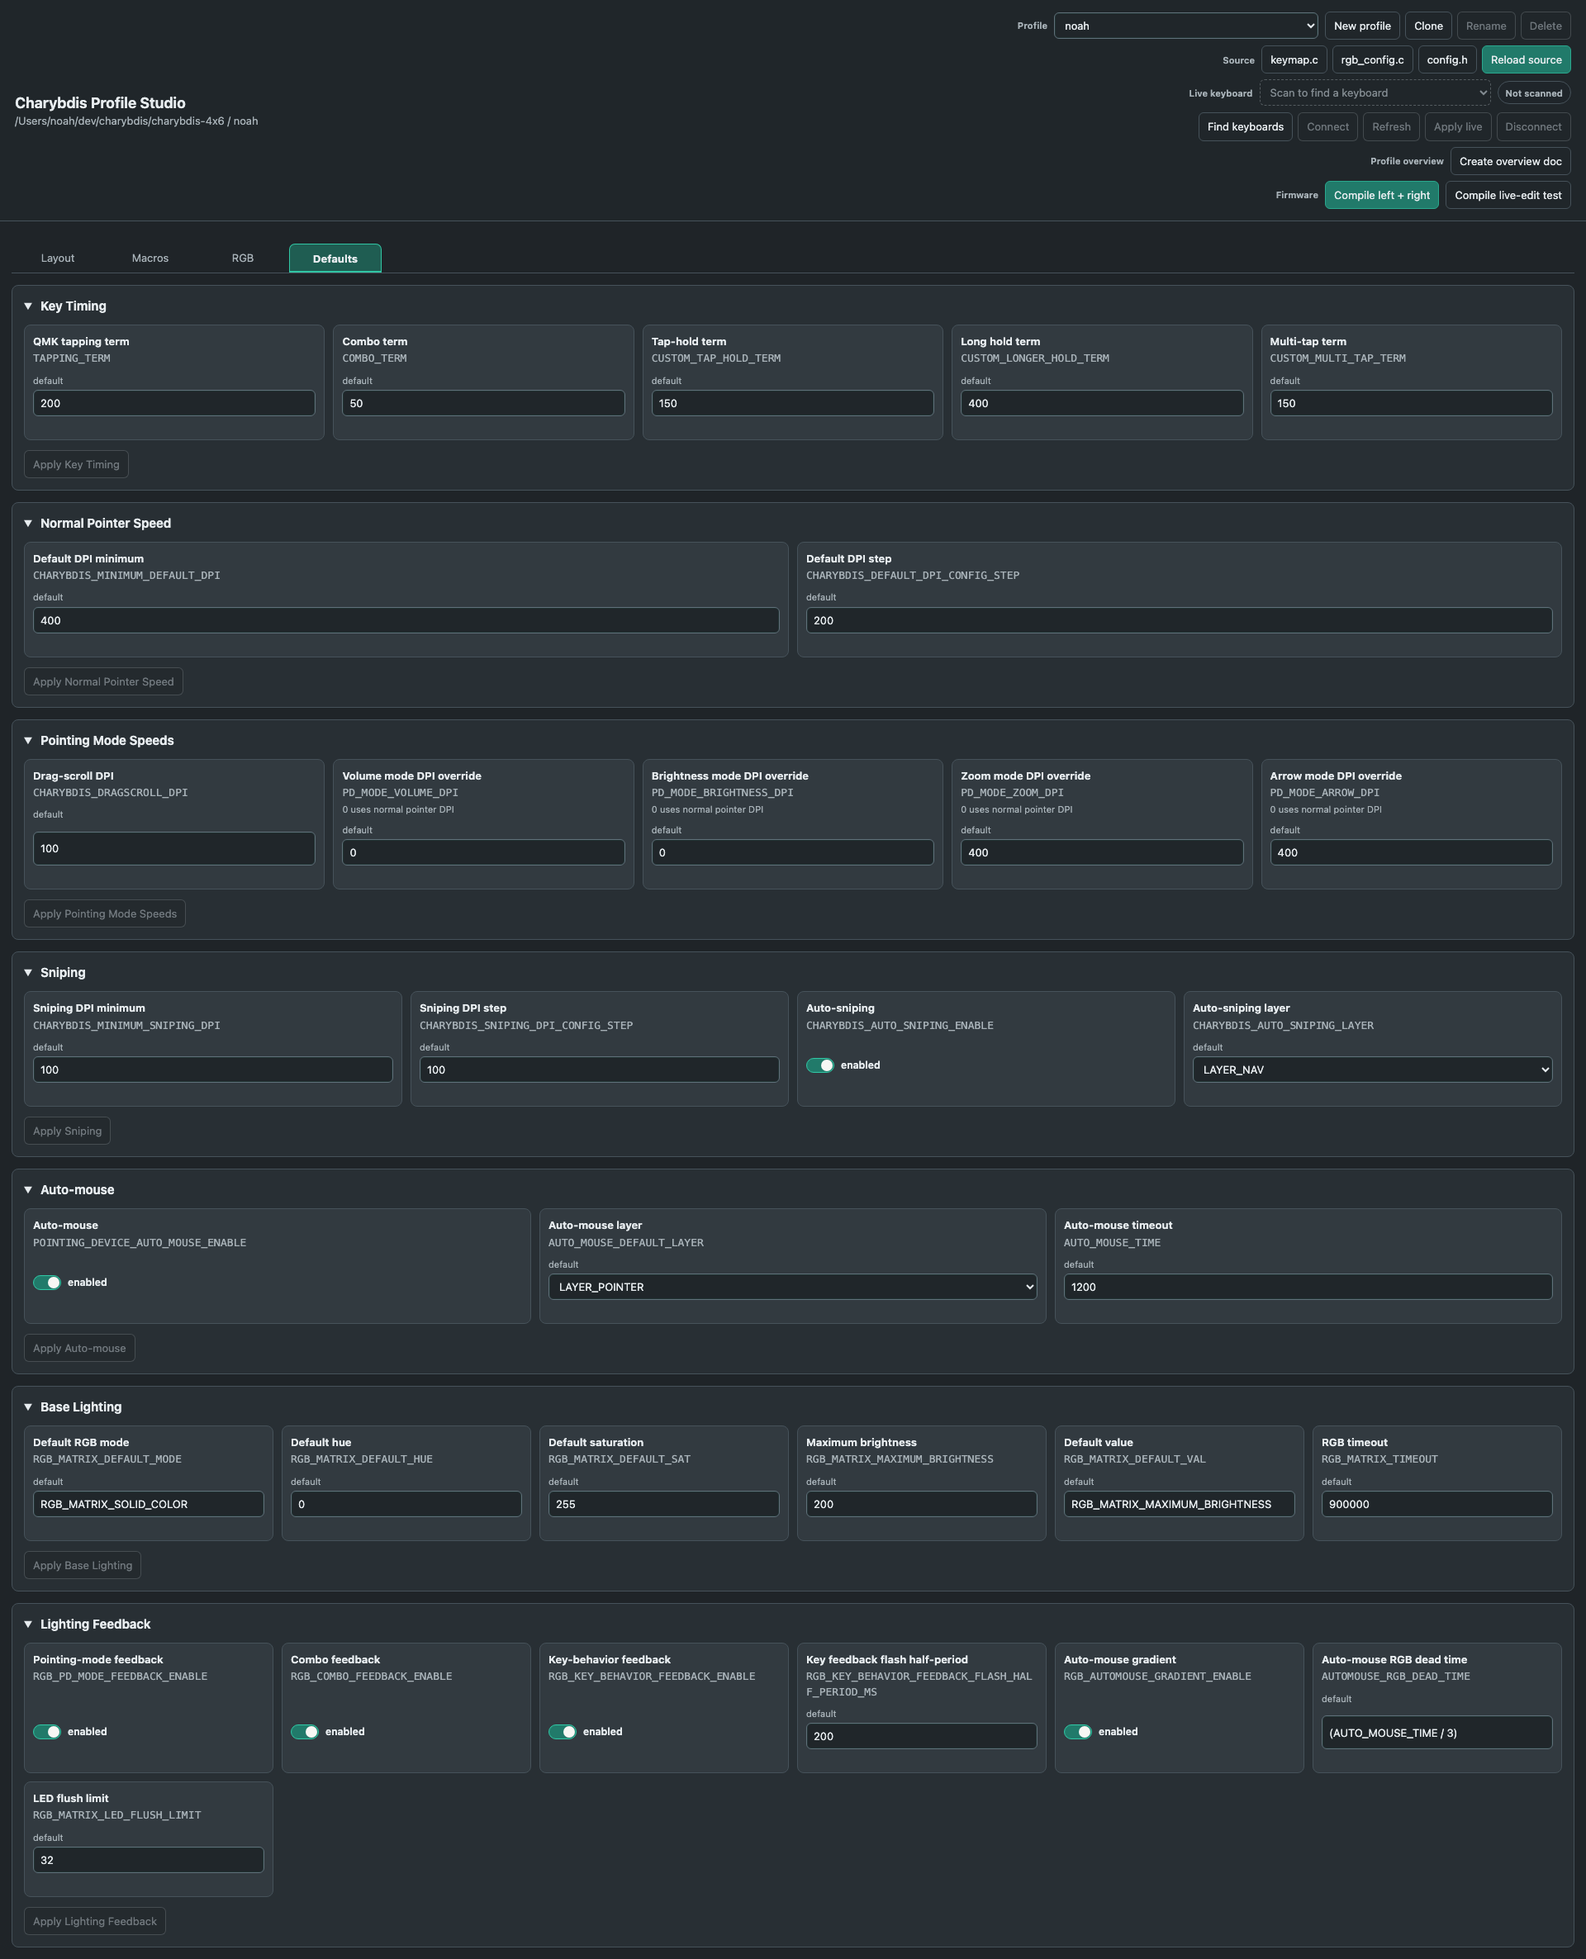
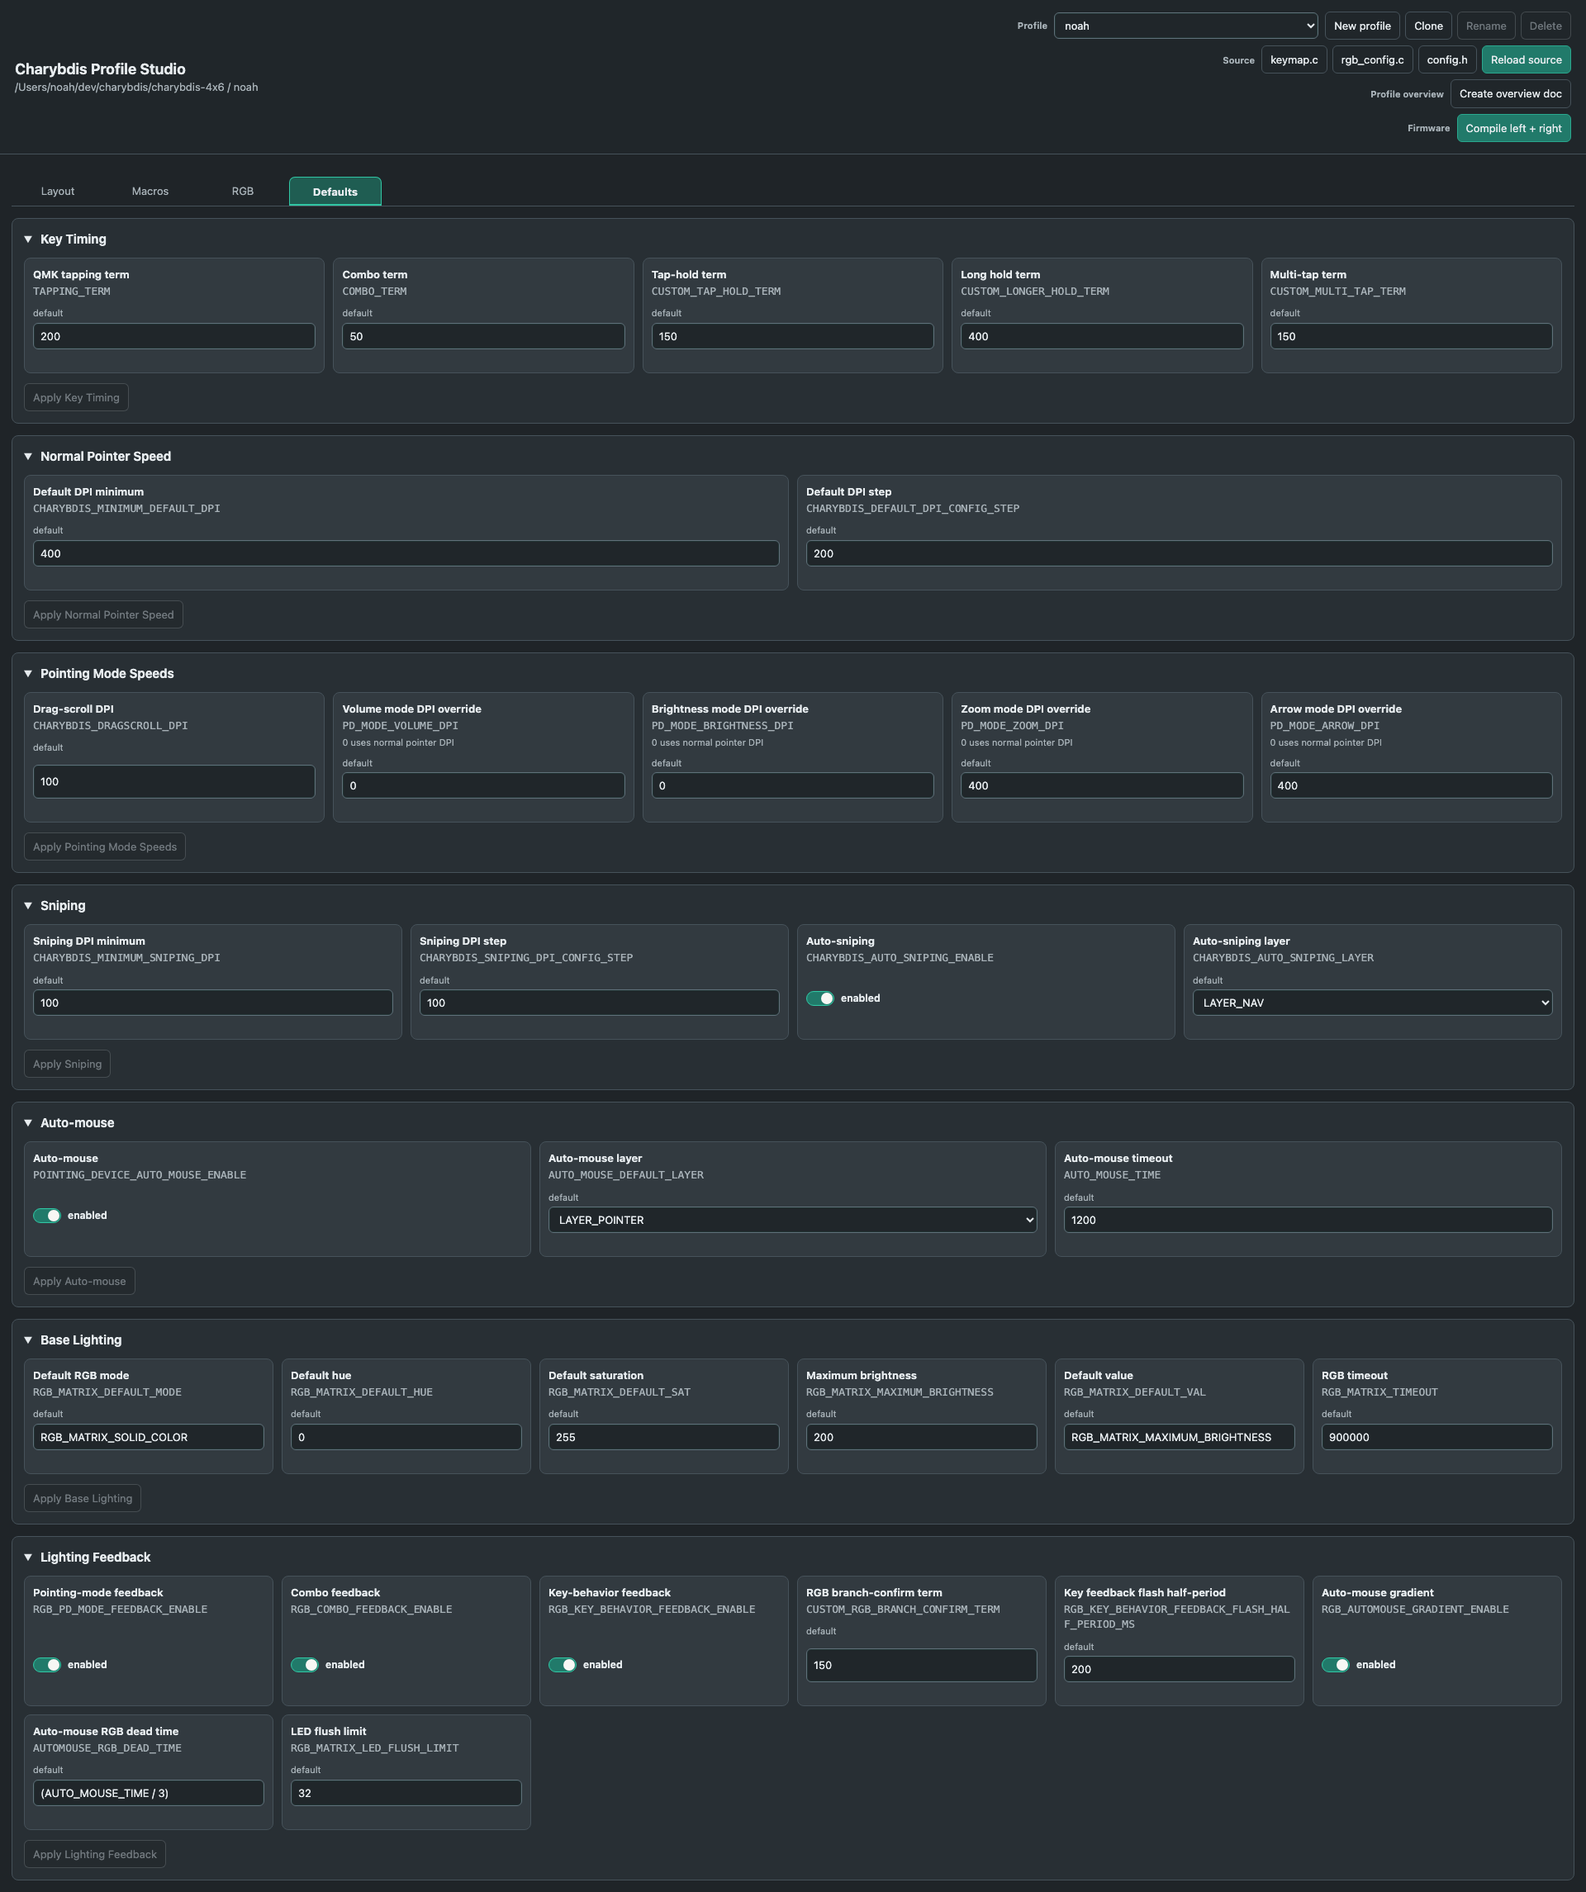
Install and run Charybdis Live the same way as Profile Studio
Mirror the affordances Profile Studio already had, so the new app is not a
second-class thing you have to remember how to start.

- scripts/install-local.sh symlinks the extension into the local VS Code
  extension directory, idempotently, refusing to clobber a real directory.
  Unlike Studio this app has a native dependency, so it installs
  node_modules first and prints the Electron rebuild command in case
  node-hid was built for a different Node ABI.
- npm run install:local, matching Studio's script name.
- A status bar item, $(radio-tower) Charybdis Live, alongside Studio's
  $(keyboard) Profile Studio. It activates onStartupFinished rather than
  Studio's workspaceContains:qmk.json, because this app must not need a
  repository to be useful.
- Repo tasks: Install Charybdis Live Extension, and Regenerate Live
  Keycode Catalog for the one build step the app has.
- Repo and app launch configs so F5 runs either extension.

The workspace file needs no change: its status bar entries drive tasks,
and the app contributes its own item once installed, exactly as Studio
does.

Also fix documentation the revert made false. The README described live
editing as a Profile Studio feature and PROFILE_STUDIO.md documented
Apply live, Compile live-edit test and the performance comparison build,
none of which exist in the frozen Studio. The guide and its screenshots
return to their refactor/aug state with a pointer to the live app, and the
[…]

diff --git a/tools/charybdis-live/extension.js b/tools/charybdis-live/extension.js
@@ -20,6 +20,13 @@ function activate(context) {
     context.subscriptions.push(
         vscode.commands.registerCommand("charybdisLive.open", () => openPanel(context))
     );
+
+    const status = vscode.window.createStatusBarItem(vscode.StatusBarAlignment.Left, 2);
+    status.text = "$(radio-tower) Charybdis Live";
+    status.tooltip = "Open Charybdis Live — edit the connected keyboard";
+    status.command = "charybdisLive.open";
+    status.show();
+    context.subscriptions.push(status);
 }
 
 function deactivate() {}

diff --git a/docs/tooling/PROFILE_STUDIO.md b/docs/tooling/PROFILE_STUDIO.md
@@ -1,22 +1,24 @@
 # Charybdis Profile Studio
 
+> Profile Studio edits the authored C profile. Editing the **connected
+> keyboard** is a separate app: see
+> [`tools/charybdis-live/`](../../tools/charybdis-live/) and
+> [`LIVE_EDIT_APP_DIRECTION.md`](../LIVE_EDIT_APP_DIRECTION.md). Studio is
+> frozen; it is no longer a development target.
+
 Charybdis Profile Studio is the repo-local VS Code extension under
 [`tools/charybdis-profile-studio/`](../../tools/charybdis-profile-studio/).
-It currently edits the authored C profile visually. The long-term live-edit
-authority is the keyboard's readable committed logical profile, as defined in
-[`device-resident-profile.md`](../architecture/device-resident-profile.md).
-The complete user-facing product goal and quality bar are maintained in
-[`PROFILE_STUDIO_PRODUCT_GOAL.md`](./PROFILE_STUDIO_PRODUCT_GOAL.md).
+It edits the authored profile visually while keeping the C source files as the
+only source of truth.
 
 For the shorter user-facing guide and screenshot links, see
 [`tools/charybdis-profile-studio/README.md`](../../tools/charybdis-profile-studio/README.md).
 
-## Current Source-Driven Ownership
+## Source Ownership
 
 There is no sidecar profile format. The Studio parses existing C authoring
 blocks, renders a VS Code webview, and applies narrow patches back to those
-same blocks. This describes current behavior, not the intended authority of a
-connected live session.
+same blocks.
 
 The extension writes the selected profile under
 `keyboards/bastardkb/charybdis/4x6/keymaps/<name>/`. For the current `noah`
@@ -30,105 +32,6 @@ profile, the editable files are:
 
 For complex behavior rows, direct source editing is still expected after using
 the Studio as a starter.
-
-## Target Device-First Ownership
-
-When a live keyboard is connected, its exact committed generation becomes the
-editing baseline. Studio must be able to download the complete supported
-logical profile, create a generation-bound draft, commit it to both halves, and
-read it back. Source import and source export remain explicit operations; a
-connection never silently overwrites the keyboard or the repository.
-
-The device stores structured configuration values, not literal C text. The C
-files remain compiled defaults, recovery input, and the reviewable
-version-control representation. Initially one logical Studio profile may still
-be backed by standard VIA storage for layout/macros and the custom profile store
-for RGB, behaviors, and policy domains. That physical split must be covered by
-one logical manifest and transaction coordinator before the software can claim
-that a complete profile was committed atomically.
-
-## Live Keyboard And Engineering Apply
-
-The header's `Live keyboard` row supports both read-only inspection and the
-first engineering live-apply path:
-
-- `Find keyboards` enumerates the matching QMK Raw HID interface without
-  opening it.
-- `Connect` opens the selected interface and sends only standard VIA identity
-  reads plus Profile Wire requests for capabilities and status.
-- `Refresh` repeats those capability and status reads.
-- `Apply live` appears only when the connected firmware advertises the complete
-  candidate-write, persistent-commit, runtime-activation, and peer-reconciliation
-  contract and reports the second half as detected and converged. It compiles
-  RGB and `key_behaviors[]` from source on disk, uploads the canonical profile,
-  persists it on both halves, and activates it. It also compiles every authored
-  layer slot to the keyboard's VIA matrix coordinates, reads the current
-  dynamic keymap, writes only differences, and verifies each changed key by
-  readback. Those standard VIA writes use the firmware's existing immediate
-  split mirror and durable reconciliation rather than a second profile format.
-- `Disconnect` closes the host connection.
-
-Despite the current feature name, Profile Wire's `READ_SURFACE` exposes only
-capability and status pages. It does not yet expose the committed custom-profile
-bytes. Standard VIA can read layout keycodes, but Studio cannot currently
-reconstruct the complete profile from the keyboard.
-
-The native HID path and connected handle stay in the extension host. The
-webview receives an opaque device id, a display label, decoded capabilities and
-status, and sanitized errors/diagnostics.
-
-The live panel compares protocol and schema majors, report framing, Milestone A
-domain support, the standard VIA firmware version, and the active source
-profile's layer, behavior, combo, RGB group, and LED requirements with the
-capacities reported by firmware. An
-incompatible result disables `Apply live`. Ordinary source Apply actions still
-write only the C files; use `Apply live` as the explicit device operation.
-
-Ordinary firmware reports its compiled/read-only store view and advertises no
-mutation capability. The side-specific live-edit test artifacts enable the
-complete owner and mutation route together. Their D-022 barrier prepares the
-peer, commits locally, authorizes the peer commit, requires exact convergence,
-then publishes the new runtime generation only at a safe activation boundary.
-Profile Studio performs a final status read and reports success only when the
-same digest is both active and committed.
-
-### First two-half test
-
-1. Install or reload the current Profile Studio extension.
-2. Use `Compile live-edit test` in the Firmware row, or use the labeled UF2
-   files already built at the repository root.
-3. Flash `bastardkb_charybdis_4x6_noah_live_edit_left.uf2` to the physical left
-   half and `bastardkb_charybdis_4x6_noah_live_edit_right.uf2` to the physical
-   right half using the normal UF2 bootloader workflow.
-4. Reconnect the keyboard normally, open Profile Studio, then choose `Find
-   keyboards` and `Connect`.
-5. Confirm the Live panel says `Second half detected: Yes`, `Halves converged:
-   Yes`, and that live apply is available. Make and apply a small
-   source edit—first an obvious RGB color, then a base-layer letter such as
-   `KC_Y` to `KC_X`—and choose `Apply live`. Local form drafts must be applied
-   to source first; the live compiler intentionally reads the three files on
-   disk.
-6. Confirm the Live apply card says `Persisted and active` and reports the
-   checked/changed layer-key counts. Exercise the changed key and behavior on
-   both halves, then reboot once to verify persistence.
-
-If Studio reports that the second half was not detected while ordinary keys on
-that half still work, the core QMK split link may be healthy while the profile
-endpoint is not. Both live-edit artifacts must include the slave durable-I/O
-scan hook; rebuild and flash the current pair rather than treating working keys
-as proof that the profile endpoint is running. A candidate left in
-`PREPARING_PEER` by an older pair is still pre-commit. Power-cycle both halves
-together, flash the current matching left/right pair, reconnect, and refresh.
-Studio can resume a matching recoverable candidate after the split is healthy;
-it refuses a mismatched or unsafe candidate instead of overwriting it.
-
-This pair is an engineering acceptance build, not the ordinary daily firmware.
-Its reviewed stack paths pass and its linked fixed occupancy is far below the
-270,336 bytes of physical SRAM available on each RP2040, but its `.bss` and
-`.data + .bss` regression policies remain red and runtime high-water has not
-yet been measured. If the first test behaves unexpectedly, stop live writes and
-flash the ordinary left/right firmware pair; ordinary firmware does not activate
-the persisted live profile.
 
 ## Profiles And New Keymaps
 
@@ -189,27 +92,10 @@ warns before generation when Studio has staged layout/layer edits or dirty local
 forms, because the overview is generated from the source files currently on
 disk.
 The Firmware row's `Compile left + right` button builds
-`bastardkb_charybdis_4x6_<name>_left.uf2` with `FORCE_SLAVE=yes` plus
-`NOAH_PHYSICAL_HALF=left`, and the matching right artifact with
-`FORCE_MASTER=yes` plus `NOAH_PHYSICAL_HALF=right`. The role mapping follows
-the keyboard's `MASTER_RIGHT` configuration. Physical identity is embedded in
-each artifact independently, so a USB-role swap or EEPROM reset cannot change
-the durable live-profile origin. The action opens the Charybdis Profile Studio
-output pane and streams QMK output while each side builds.
-`Compile live-edit test` uses the same physical mapping and produces
-`bastardkb_charybdis_4x6_<name>_live_edit_left.uf2` and
-`bastardkb_charybdis_4x6_<name>_live_edit_right.uf2`, adding the explicit
-engineering owner and mutation gates without changing the ordinary build.
-
-`Compile performance comparison` builds four side-specific diagnostic images
-from the same source tree. Every image enables
-`NOAH_PROFILE_PERFORMANCE_DIAGNOSTICS=yes`. The ordinary baseline explicitly
-leaves the live-profile owner and mutation route disabled and produces
-`bastardkb_charybdis_4x6_<name>_performance_baseline_left.uf2` plus the matching
-right image. The engineering pair enables both live-profile gates and produces
-the matching `performance_live_edit_left` and `performance_live_edit_right`
-images. Flash the baseline pair first and capture its diagnostic run before
-flashing the engineering pair.
+`bastardkb_charybdis_4x6_<name>_left.uf2` with `FORCE_MASTER=yes` and
+`bastardkb_charybdis_4x6_<name>_right.uf2` with `FORCE_SLAVE=yes`. It opens the
+Charybdis Profile Studio output pane and streams the QMK output while each side
+builds.
 
 ## Editing Model
 
@@ -218,11 +104,6 @@ are local drafts until an apply action writes them to source.
 
 - Layout-slot edits are staged and written to `keymap.c` only when a layout
   apply action is pressed.
-- In the current milestone, `Apply live` treats source as authoritative for all
-  authored layer slots. It compares all slots with the connected keyboard,
-  sends standard VIA writes only for differences, and verifies each write.
-  Unused matrix cells are left untouched. Device-first readback will replace
-  this implicit direction with explicit keyboard/source import and export.
 - The Layout board's apply button appears on every layer whenever any layer has
   staged layout edits, and writes all staged layout edits in one pass.
 - Layer add/delete is a separate staged operation written only by

diff --git a/README.md b/README.md
@@ -234,33 +234,43 @@ npm run install:local
 The full Studio guide is
 [`docs/tooling/PROFILE_STUDIO.md`](./docs/tooling/PROFILE_STUDIO.md).
 
-Normal firmware keeps the Live keyboard connection read-only. The separately
-labeled live-edit test firmware now exposes the first end-to-end engineering
-path: Profile Studio compiles RGB and `key_behaviors[]` directly from the
-authored source files and synchronizes every authored `keymaps[][]` slot through
-standard VIA. The custom profile is validated, prepared, persistently committed,
-and activated on both halves; layout writes are read back on the connected half
-and enter the existing immediate-mirror and durable split-reconciliation paths.
-Real-board testing confirms that both an RGB color and a normal base-layer
-keycode can now be changed without reflashing. This is the first usable
-engineering milestone, but it is not production-promoted: the broader hardware
-acceptance matrix and runtime high-water measurements are still open, and the
-engineering image remains above two conservative static-memory regression
-policies (not the RP2040's physical RAM capacity).
+Profile Studio edits the authored source files. Live editing of the connected
+keyboard is a separate app.
 
-This first milestone is still source-driven. The keyboard exposes status and
-identity but not yet the complete committed custom-profile payload, so Studio
-cannot yet reconstruct RGB and custom behaviors from the keyboard alone. Full
-device readback, device-first editing, explicit source import/export, and
-generation-conflict handling are the next architectural goal.
+## Charybdis Live
 
-Working keys on the slave prove QMK's core split transport, not the separate
-live-profile endpoint. The engineering firmware therefore advances durable
-profile and VIA receiver work from QMK's dedicated slave scan hook as well as
-the master scan hook, and Studio keeps live apply disabled until profile status
-confirms that both halves are present and converged.
+[Charybdis Live](./tools/charybdis-live/) edits the connected keyboard over Raw
+HID. It never parses this repository, so it does not need a firmware workspace
+open. Profile Studio owns `.c` authoring; this app owns the device.
 
-The next sections explain the keymap and RGB models that the Studio edits.
+From VS Code with this repo folder open:
+
+1. Run the VS Code task `Install Charybdis Live Extension`.
+2. Reload VS Code.
+3. Open it from the `$(radio-tower) Charybdis Live` status bar item, or run
+   `Charybdis: Open Charybdis Live` from the command palette.
+
+You can also install it from a shell:
+
+```sh
+cd tools/charybdis-live
+npm run install:local
+```
+
+Press `F5` with the `Run Charybdis Live` launch configuration to run it in an
+Extension Development Host instead.
+
+It currently shows what the keyboard reports about itself: VIA and Profile Wire
+versions, schema, capacities, storage geometry, and committed profile status
+including whether both halves agree on a generation. Reading the committed
+payload back is the next step. Flash the side-specific firmware pair, which
+carries the live-profile owner by default; the generic image does not.
+
+The direction, the decisions behind the split, and what is deliberately left
+undesigned are in
+[`docs/LIVE_EDIT_APP_DIRECTION.md`](./docs/LIVE_EDIT_APP_DIRECTION.md).
+
+The next sections explain the keymap and RGB models that Profile Studio edits.
 
 ## The Keymap Model
 
